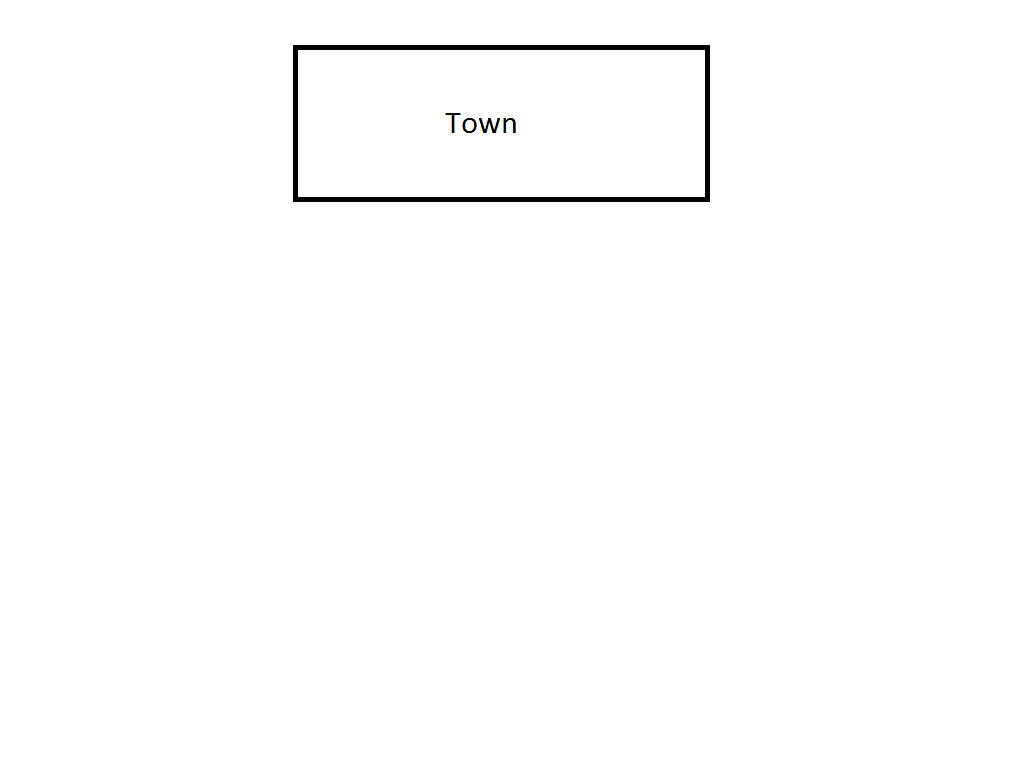
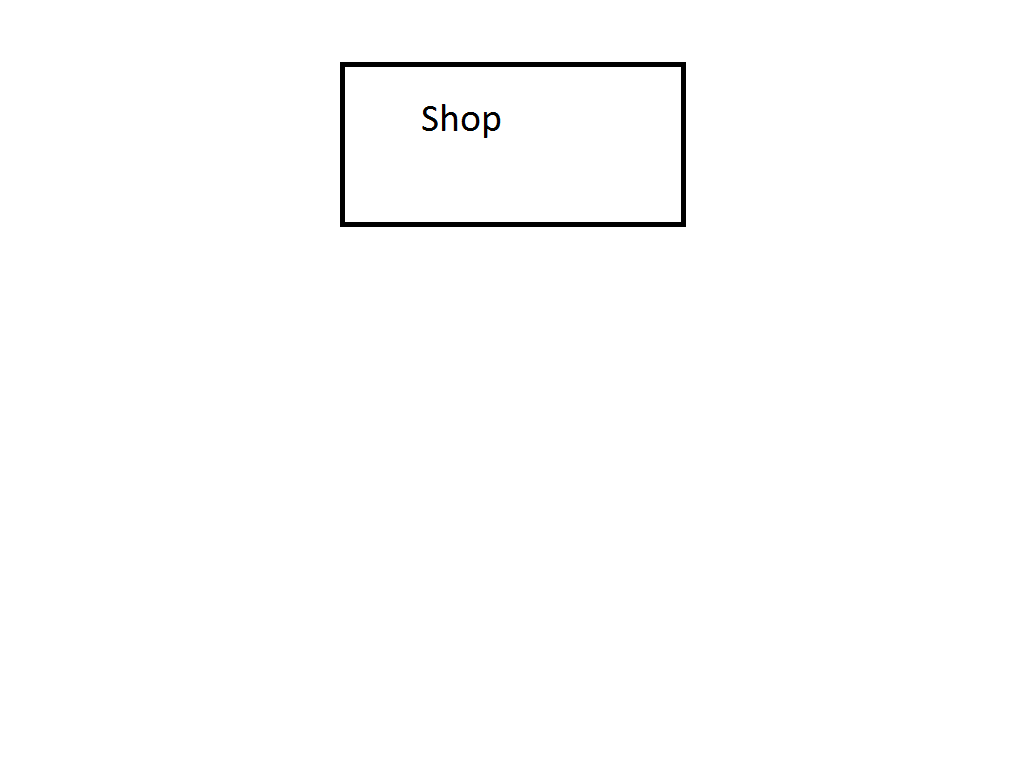
Not sure what I added

Changed region(s): [[0.2812, 0.0312, 0.7188, 0.3125], [0.4062, 0.125, 0.5, 0.1875]]

diff --git a/Summative/src/res/ShopGUI.java b/Summative/src/res/ShopGUI.java
@@ -14,59 +14,111 @@ import main.Main;
 public class ShopGUI extends GUI {
 	int width = GraphicsMain.WIDTH, height = GraphicsMain.HEIGHT;
 
-	public ShopGUI(int x, int y, BufferedImage background, LinkedList<Pane> panes, String name) {
-		super(x, y, background, panes, name);
+	public ShopGUI(int x, int y, LinkedList<Pane> panes, String name) {
+		super(x, y, panes, name);
 		try {
 			genGUI();
 		} catch(IOException e) {
 			Main.log.log(Level.SEVERE, "Cannot find shop gui images");
 		}
+		this.setCurPane("townButtons");
 	}
 	
-	public ShopGUI(int x, int y, BufferedImage background, String name) {
-		super(x, y, background, name);
+	public ShopGUI(int x, int y, String name) {
+		super(x, y, name);
 		try {
 			genGUI();
 		} catch(IOException e) {
 			Main.log.log(Level.SEVERE, "Cannot find shop gui images");
 		}
+		this.setCurPane("townButtons");
 	}
 	
 	public void genGUI() throws IOException {
-		createShopButtons();
-		/*createSmithButtons();
-		createMysticButtons();*/
-		
+		createShopPane();
+		createSmithPane();
+		createInnPane();
+		createMysticPane();
+		createDungeonPane();
 	}
 	
-	public void createShopButtons() throws IOException {
+	public void createShopPane() throws IOException {
 		BufferedImage smithButtonI = ImageIO.read(this.getClass().getClassLoader().getResource("shop/smithButton.png"));
-		Clickable smithButton = new Clickable((width/6), (height/3)*2, smithButtonI, "smithButton");
+		Clickable smithButton = new Clickable((width/6), (height/3)*2 - height/6, smithButtonI, "smithButton");
 		BufferedImage innButtonI = ImageIO.read(this.getClass().getClassLoader().getResource("shop/innButton.png"));
-		Clickable innButton = new Clickable((width/6)*3, (height/3)*2, innButtonI, "innButton");
+		Clickable innButton = new Clickable((width/6)*3, (height/3)*2 - height/6, innButtonI, "innButton");
 		BufferedImage mysticButtonI = ImageIO.read(this.getClass().getClassLoader().getResource("shop/mysticButton.png"));
-		Clickable mysticButton = new Clickable((width/6), (height/3)*2 + height/6, mysticButtonI, "mysticButton");
+		Clickable mysticButton = new Clickable((width/6), (height/3)*2, mysticButtonI, "mysticButton");
 		BufferedImage dungeonButtonI = ImageIO.read(this.getClass().getClassLoader().getResource("shop/dungeonButton.png"));
-		Clickable dungeonButton = new Clickable((width/6)*3, (height/3)*2 + height/6, dungeonButtonI, "dungeonButton");
-		Pane pane = new Pane("shopButtons");
+		Clickable dungeonButton = new Clickable((width/6)*3, (height/3)*2, dungeonButtonI, "dungeonButton");
+		BufferedImage shopBackground = ImageIO.read(this.getClass().getClassLoader().getResource("shop/shopBackground.png"));
+		Pane pane = new Pane("townButtons", shopBackground);
 		pane.add(smithButton);
 		pane.add(innButton);
 		pane.add(mysticButton);
 		pane.add(dungeonButton);
 		addPane(pane);
-		this.setCurPane(pane.getName());
+	}
+	
+	public void createSmithPane() throws IOException {
+		BufferedImage smithBackground = ImageIO.read(this.getClass().getClassLoader().getResource("shop/smithBackground.png"));
+		Pane pane = new Pane("smithButtons", smithBackground);
+		addPane(pane);
+	}
+	
+	public void createInnPane() throws IOException {
+		BufferedImage innBackground = ImageIO.read(this.getClass().getClassLoader().getResource("shop/innBackground.png"));
+		Pane pane = new Pane("innButtons", innBackground);
+		addPane(pane);
+	}
+	
+	public void createMysticPane() throws IOException {
+		BufferedImage mysticBackground = ImageIO.read(this.getClass().getClassLoader().getResource("shop/mysticBackground.png"));
+		Pane pane = new Pane("mysticButtons", mysticBackground);
+		addPane(pane);
+	}
+	
+	public void createDungeonPane() throws IOException {
+		BufferedImage dungeonBackground = ImageIO.read(this.getClass().getClassLoader().getResource("shop/dungeonBackground.png"));
+		Pane pane = new Pane("dungeonButtons", dungeonBackground);
+		BufferedImage enterButtonI = ImageIO.read(this.getClass().getClassLoader().getResource("shop/dungeonEnterButton.png"));
+		Clickable enterButton = new Clickable((width/3), (height/3)*2, enterButtonI, "dungeonEnterButton");
+		pane.add(enterButton);
+		addPane(pane);
 	}
 	
 	public void mouseClicked(MouseEvent e) {
-		for(int i = 0; i < getPanes().size(); i++) {
-			for(int j = 0; j < getPanes().get(i).getElements().size(); i++) {
-				if(getPanes().get(i).getElement(j).getBound().contains(e.getPoint())) {
-					Clickable clicked = getPanes().get(i).getElement(j);
-					if(clicked.getName().equals("smithButton")) {
-						this.setCurPane("smithButtons");
-					}
+		for(int i = 0; i < getCurPane().getElements().size(); i++) {
+			if(getCurPane().getElement(i).getBound().contains(e.getPoint())) {
+				if(getCurPane().getName().equals("townButtons")) {
+					scanTownButtons(i);
 				}
+				if(getCurPane().getName().equals("dungeonButtons")) {
+					scanDungeonButtons(i);
+				}
+						
 			}
+		}
+	}
+	
+	private void scanTownButtons(int i) {
+		if(getCurPane().getElement(i).getName().equals("smithButton")) {
+			this.setCurPane("smithButtons");
+		}
+		if(getCurPane().getElement(i).getName().equals("innButton")) {
+			this.setCurPane("innButtons");
+		}
+		if(getCurPane().getElement(i).getName().equals("mysticButton")) {
+			this.setCurPane("mysticButtons");
+		}
+		if(getCurPane().getElement(i).getName().equals("dungeonButton")) {
+			this.setCurPane("dungeonButtons");
+		}
+	}
+	
+	private void scanDungeonButtons(int i) {
+		if(getCurPane().getElement(i).getName().equals("dungeonEnterButton")) {
+			Main.startDungeon();
 		}
 	}
 	

diff --git a/Summative/src/res/GUI.java b/Summative/src/res/GUI.java
@@ -7,22 +7,20 @@ import java.util.LinkedList;
 
 public abstract class GUI implements MouseListener{
 	private LinkedList<Pane> panes;
-	private String name, curPane;
-	private BufferedImage background;
+	private Pane curPane;
+	private String name, curPaneName;
 	private int x, y;
 	
-	public GUI(int x, int y, BufferedImage background, String name) {
+	public GUI(int x, int y, String name) {
 		this.x = x;
 		this.y = y;
-		this.background = background;
 		this.name = name;
 		panes = new LinkedList<Pane>();
 	}
 	
-	public GUI(int x, int y, BufferedImage background, LinkedList<Pane> panes, String name) {
+	public GUI(int x, int y, LinkedList<Pane> panes, String name) {
 		this.x = x;
 		this.y = y;
-		this.background = background;
 		this.name = name;
 		this.panes = panes;
 	}
@@ -34,9 +32,8 @@ public abstract class GUI implements MouseListener{
 	public LinkedList<Pane> getPanes() {return panes;}
 	
 	public void draw(Graphics2D g) {
-		g.drawImage(background, x, y, null);
 		for(int i = 0; i < panes.size(); i++) {
-			if(panes.get(i).getName().equals(curPane)) {
+			if(panes.get(i).getName().equals(curPaneName)) {
 				panes.get(i).draw(g);
 				break;
 			}
@@ -52,12 +49,22 @@ public abstract class GUI implements MouseListener{
 		}
 	}
 
-	public String getCurPane() {
+	public String getCurPaneName() {
+		return curPaneName;
+	}
+	
+	public Pane getCurPane() {
 		return curPane;
 	}
 
-	public void setCurPane(String curPane) {
-		this.curPane = curPane;
+	public void setCurPane(String curPaneName) {
+		this.curPaneName = curPaneName;
+		
+		for(int i = 0; i < panes.size(); i++) {
+			if(panes.get(i).getName().equals(this.curPaneName)) {
+				curPane = panes.get(i);
+			}
+		}
 	}
 	
 	

diff --git a/Summative/src/res/Pane.java b/Summative/src/res/Pane.java
@@ -1,20 +1,24 @@
 package res;
 
 import java.awt.Graphics2D;
+import java.awt.image.BufferedImage;
 import java.util.LinkedList;
 
 public class Pane {
 	LinkedList<Clickable> buttons;
 	String name;
+	BufferedImage background;
 	
-	public Pane(String name) {
+	public Pane(String name, BufferedImage background) {
 		buttons = new LinkedList<Clickable>();
 		this.name = name;
+		this.background = background;
 	}
 	
-	public Pane(LinkedList<Clickable> buttons, String name) {
+	public Pane(LinkedList<Clickable> buttons, String name, BufferedImage background) {
 		this.buttons = buttons;
 		this.name = name;
+		this.background = background;
 	}
 	
 	public LinkedList<Clickable> getElements() {return buttons;}
@@ -31,6 +35,7 @@ public class Pane {
 	}
 	
 	public void draw(Graphics2D g) {
+		g.drawImage(background, 0, 0, null);
 		for(int i = 0; i < buttons.size(); i++) {
 			Clickable b = buttons.get(i);
 			b.draw(g);

diff --git a/Summative/src/main/Main.java b/Summative/src/main/Main.java
@@ -9,7 +9,7 @@ public class Main {
 	
 	//app resources
 	public static final int GAME_STATE = 1, MAIN_MENU_STATE = 2;
-	public static final int GAME_SHOP = 0;
+	public static final int GAME_SHOP = 0 , GAME_DUNGEON = 1;
 	public static GraphicsMain gMain;
 	public static int appState = 0, gameState = 0;
 	public static final ReentrantReadWriteLock lck = new ReentrantReadWriteLock();
@@ -32,9 +32,17 @@ public class Main {
 	public static void startGame() {
 		log.log(Level.INFO, "Starting game");
 		appState = GAME_STATE;
+		gameState = GAME_SHOP;
 		update = new Update();
 		update.start();
 		gMain.startGame();
+	}
+	
+	public static void startDungeon() {
+		log.log(Level.INFO, "Starting dungeon");
+		appState = GAME_STATE;
+		gameState = GAME_DUNGEON;
+		Main.update.generateDungeon();
 	}
 	
 	/**

diff --git a/Summative/src/res/ShopDrawer.java b/Summative/src/res/ShopDrawer.java
@@ -19,14 +19,8 @@ public class ShopDrawer {
 		}
 		else {
 			Main.log.log(Level.INFO, "Generating shop GUI");
-			BufferedImage shopGUII = null;
-			try {
-				shopGUII = ImageIO.read(this.getClass().getClassLoader().getResource("shop/shopBackground.png"));
-			} catch (IOException | IllegalArgumentException e) {
-				Main.log.log(Level.SEVERE, "Cannot find shop background");
-				e.printStackTrace();
-			}
-			shopGUI = new ShopGUI(0, 0, shopGUII, "shopGUI");
+			shopGUI = new ShopGUI(0, 0, "shopGUI");
+			Main.gMain.addMouseListener(shopGUI);
 		}
 		
 	}

diff --git a/Summative/src/main/GraphicsMain.java b/Summative/src/main/GraphicsMain.java
@@ -2,6 +2,7 @@ package main;
 import java.awt.Dimension;
 import java.awt.GridBagConstraints;
 import java.awt.GridBagLayout;
+import java.awt.event.MouseListener;
 import java.util.logging.Level;
 
 import javax.swing.JFrame;
@@ -38,6 +39,10 @@ public class GraphicsMain {
 		window.setVisible(true);
 		appState = Main.appState;
 		bl = new ButtonListener();
+	}
+	
+	public void addMouseListener(MouseListener l) {
+		window.addMouseListener(l);
 	}
 	
 	public void startGame() {

diff --git a/Summative/src/main/Update.java b/Summative/src/main/Update.java
@@ -2,6 +2,8 @@ package main;
 
 import java.util.concurrent.locks.ReentrantReadWriteLock;
 
+import res.Dungeon;
+
 /**
  * Update class for Trash Smash, updates at 60 ups, runs game logic
  * @author Ben Pinhorn
@@ -52,6 +54,10 @@ public class Update implements Runnable {
 	 */
 	public synchronized void stop() {
 		running  = false;
+	}
+	
+	public void generateDungeon() {
+		Dungeon newDungeon = new Dungeon();
 	}
 	
 	/**
